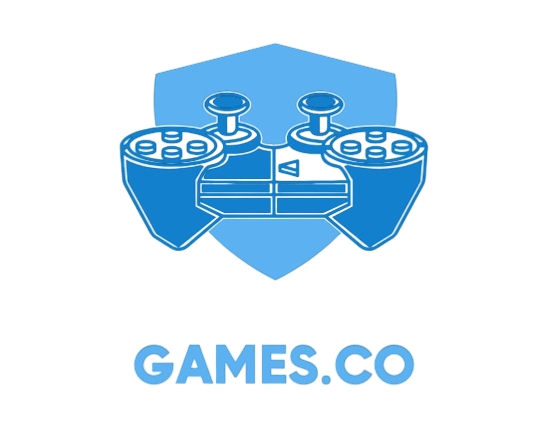
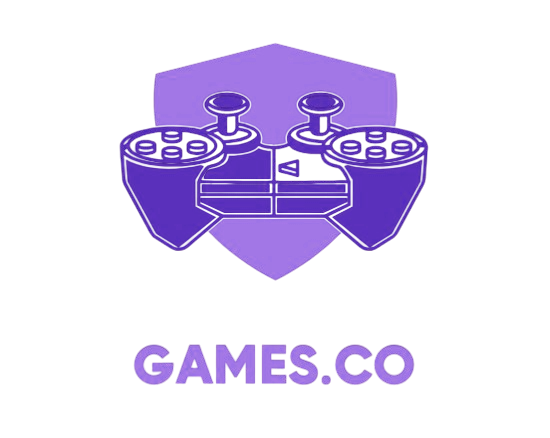
alt6

Changed region(s): [[0.2164, 0.089, 0.8036, 0.653], [0.2473, 0.7717, 0.7727, 0.8904]]

diff --git a/index.html b/index.html
@@ -76,7 +76,7 @@
                 <p class="escola-texto-um"> A Escola Alura foi fundada em 2010 e tem como objetivo ensinar Pensamento Computacional, através de Programação. </p>
                 <p class="escola-texto-dois">A turma mais estudiosa e famosa é a segunda série, turma E. Nós somos super unidos e a turma favorita por todos os professores que nos ajudam!</p>
             </div>
-            <img src="img/Book lover-pana.png" alt="imagem da escola" class="escola-imagem">
+            <img src="img/games.co.png" alt="imagem da escola" class="escola-imagem">
 
 
         </section>
